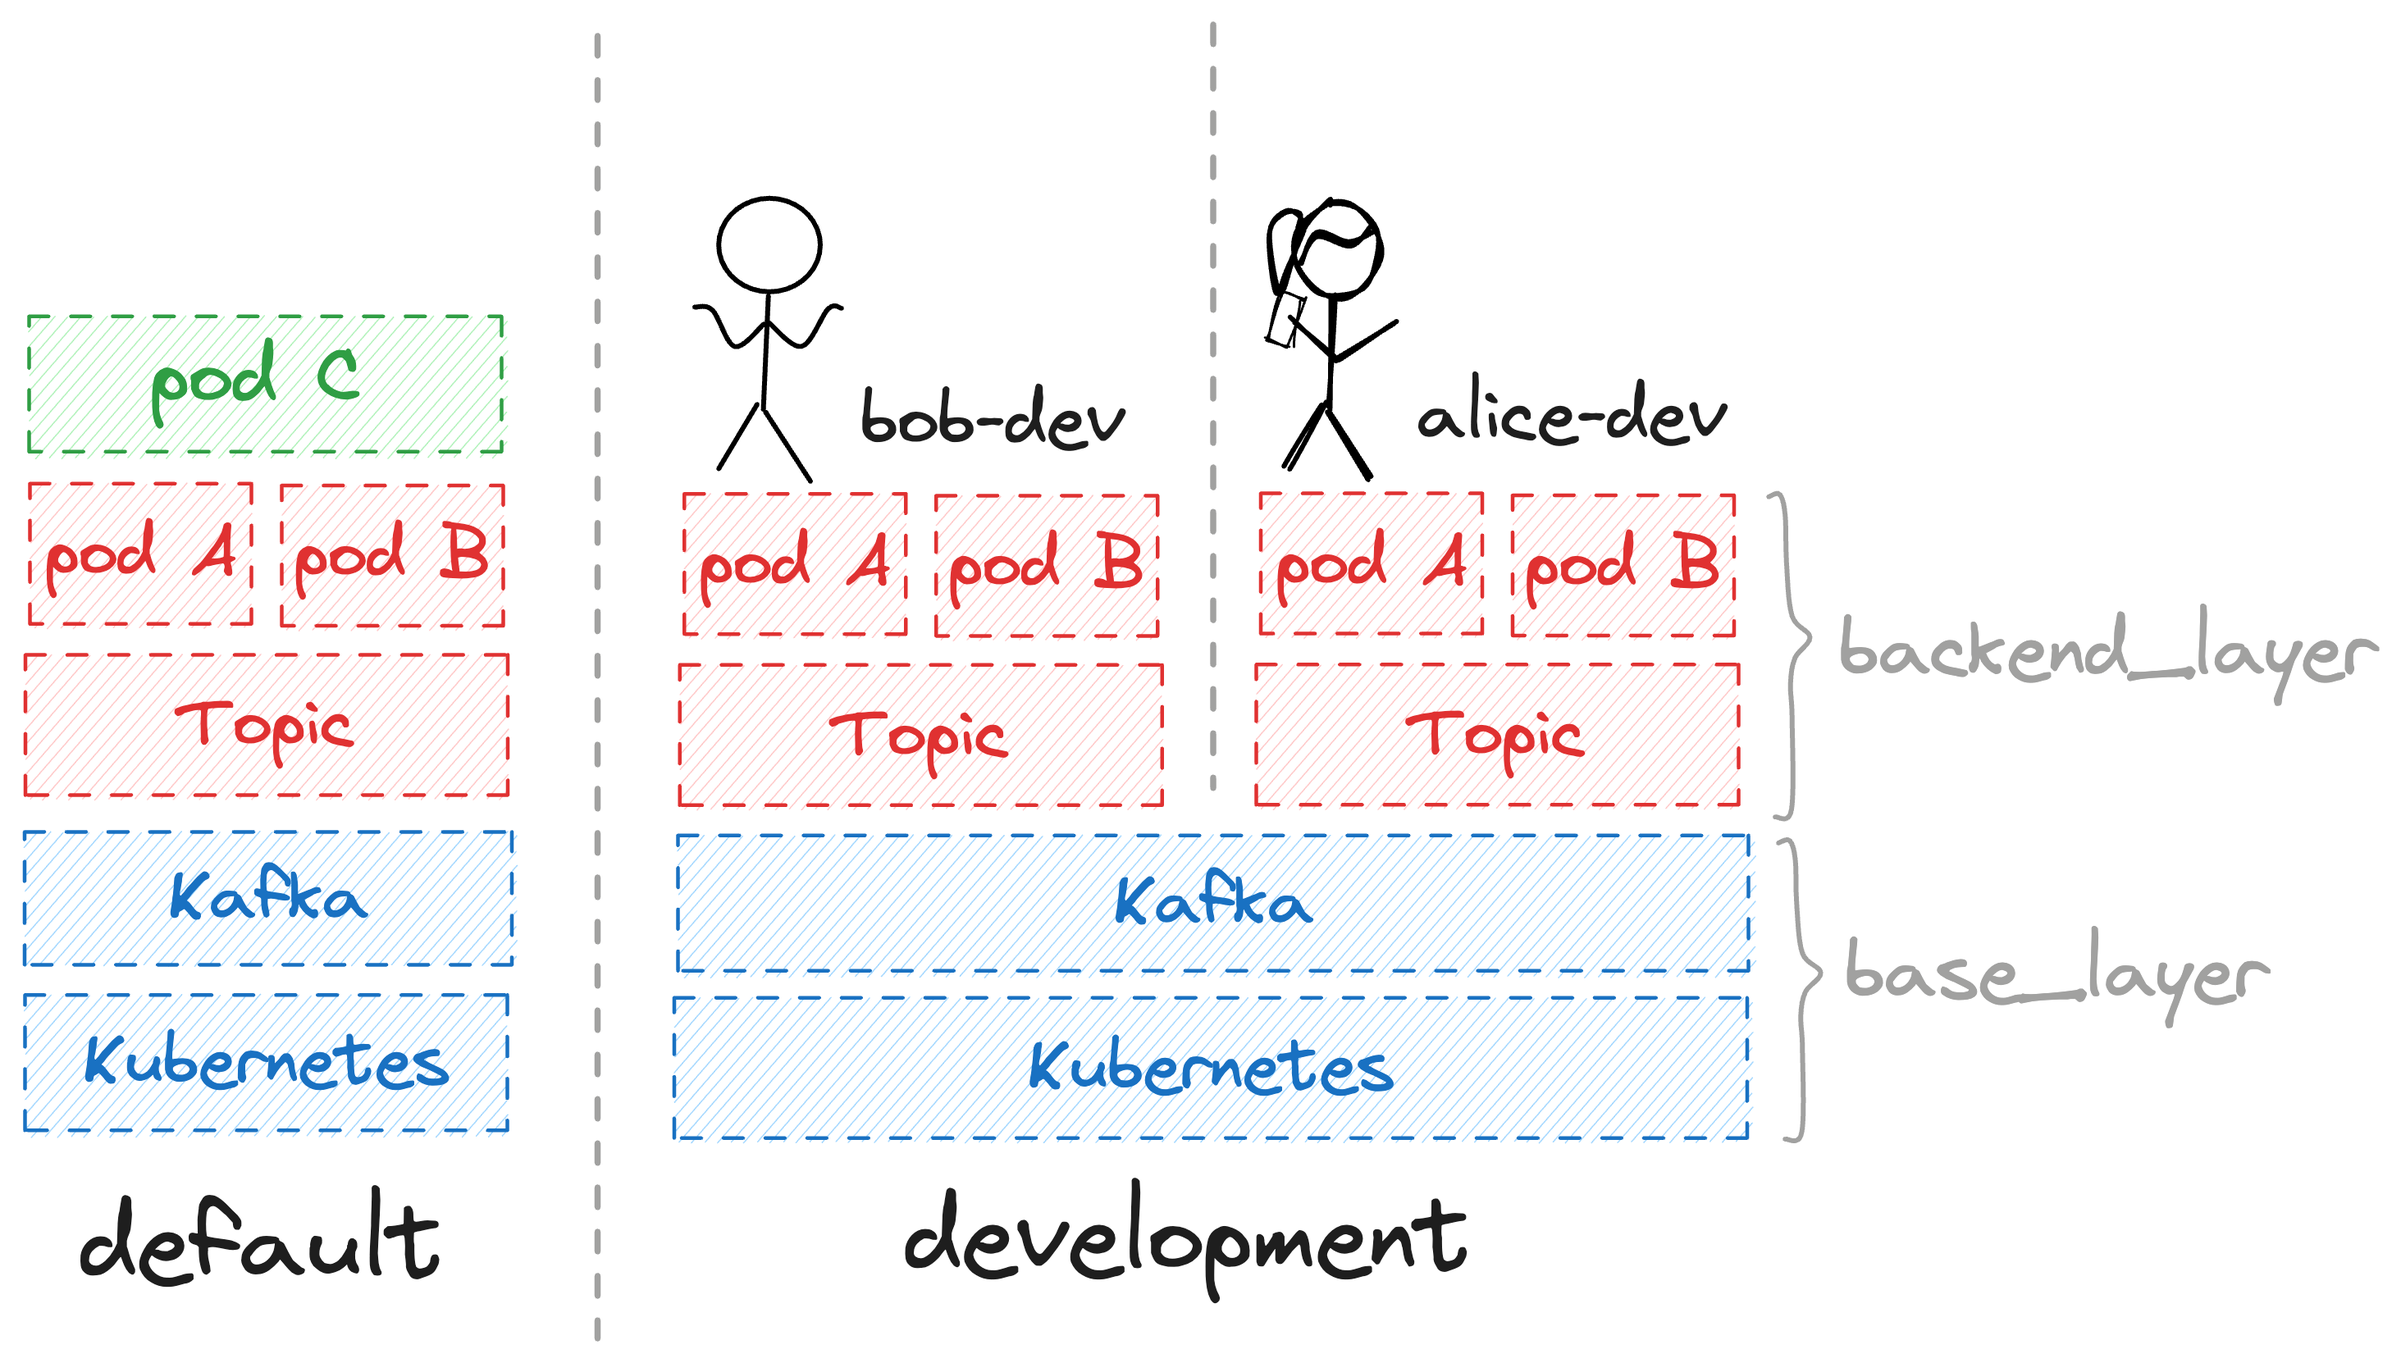
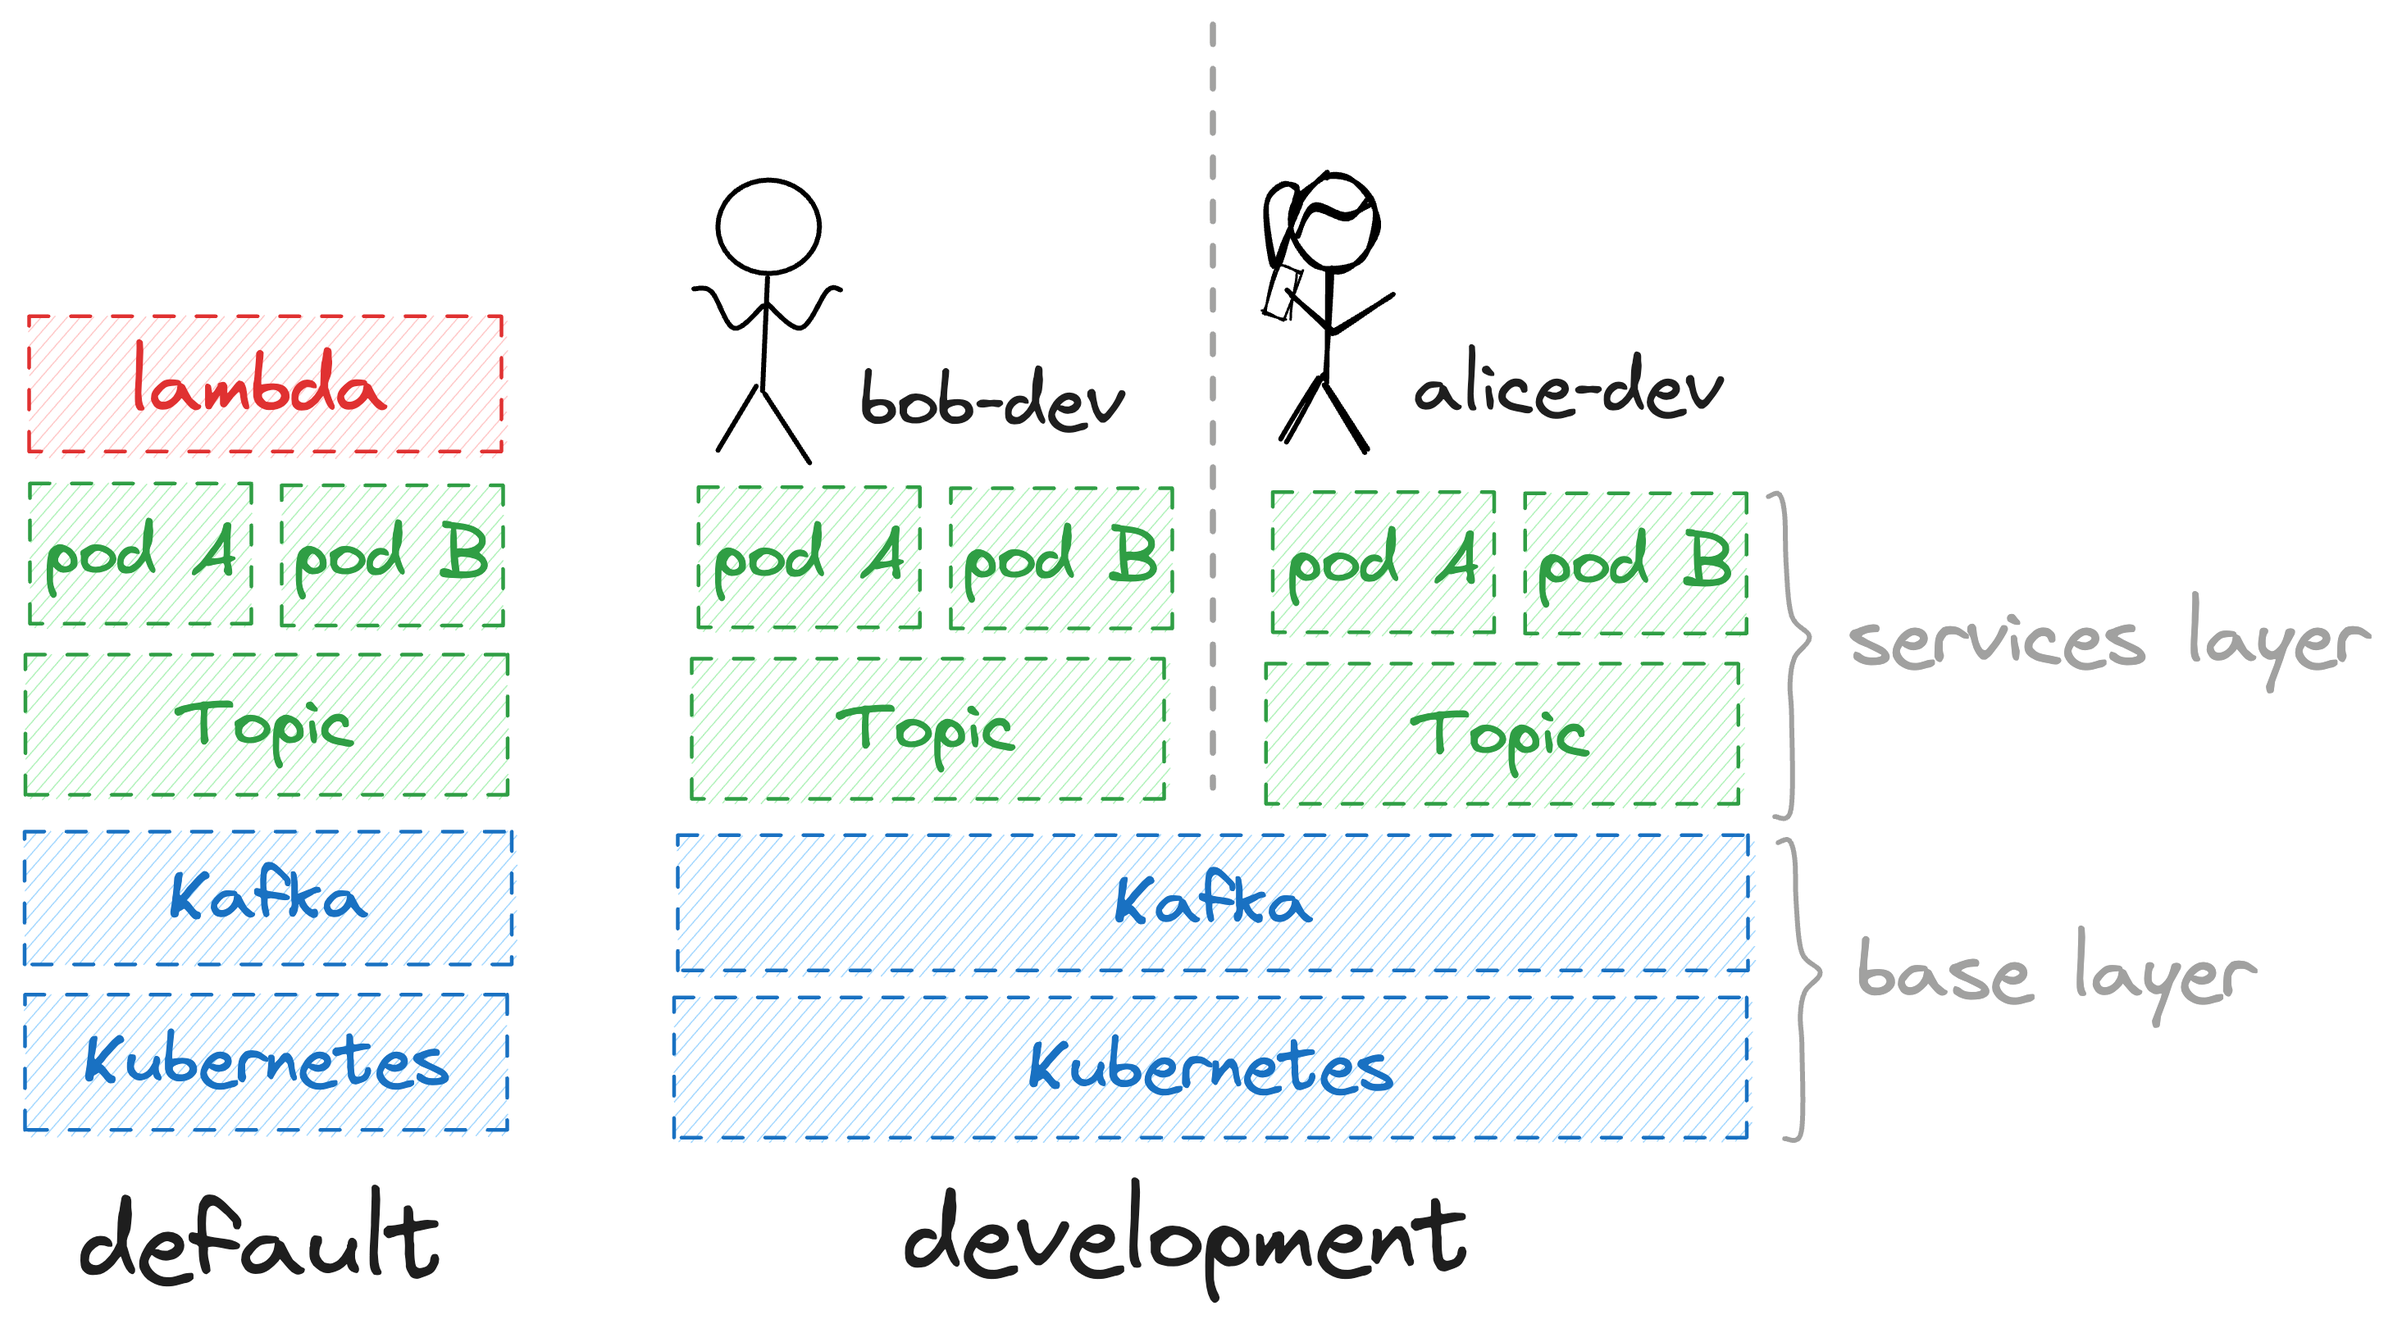
fix README

Changed region(s): [[0.2807, 0.123, 0.9668, 0.9533], [0.0, 0.2153, 0.2183, 0.984]]

diff --git a/README.md b/README.md
@@ -38,29 +38,27 @@ Layerform makes it easy for engineers to create reusable layers of infrastructur
 
 When using Layerform, engineers encapsulate each part of their infrastructure into layer definitions.
 
-```
-terraform/
-├── layers/
-│   ├── base_layer/
-│   │   ├── eks.tf
-│   │   └── kafka.tf
-│   ├── back_layer/
-│   │   ├── topic.tf
-│   │   └── services.tf
-│   └── front_layer/
-│       └── webapp.tf
-└── main.tf
-```
-
-Then, engineers can create infrastructure by stacking each of those layers. Layerform's magic is that layers can share the same base layer, allowing for easy reuse.
-
-Reusing layers is useful for easily creating production-like environments without necessarily having to recreate the whole infrastructure every time. With layers, users can spin up only the parts of the infrastructure they need.
+Engineers can create infrastructure by stacking each of those layers. Layerform's magic is that layers can share the same base layers, allowing for easy and inexpensive reuse.
 
 <p align="center">
   <img width="600px" src="./assets/img/all-layers.png" />
 </p>
 
-Reusing infrastructure helps teams save money by eliminating unnecessary duplication of infrastructure. Additionally, layers allow teams to provision environments more quickly because engineers can apply only the additional layers they need.
+## Use cases
+
+### Development environments
+
+Engineers can use Layerform to quickly spin up production-like environments.
+
+Development environments created with Layerform are similar to production environments because they use the same Terraform files.
+
+Additionally, Layerform's development enviroments are less costly and quicker to spin up because they can reuse the same base layers of infrastructure. With Layerform, engineers only apply the infrastructure layers they need.
+
+<p align="center">
+  <img width="600px" src="./assets/img/dev-environments.png" />
+</p>
+
+### Encapsulation / Isolation of concerns
 
 Another advantage of breaking infrastructure into layers is that organizations can define clearer boundaries between teams. Consequently, it will be easier for these organizations to [mirror their team's structure into their system's structure](https://martinfowler.com/bliki/ConwaysLaw.html).
 
@@ -68,9 +66,38 @@ Another advantage of breaking infrastructure into layers is that organizations c
   <img width="600px" src="./assets/img/layers-vs-org.png" />
 </p>
 
+### Cost attribution and cost savings
+
+In addition to saving costs by reusing infrastructure, Layerform allows you to automatically track costs for each layer instance.
+
+When applying layers, Layerform will automatically tag the resources it creates with the actual name assigned to the layer instance. If you have `production` and `development` base layers, for example, each of those two will contain the tag `layerform_name` with their respective names.
+
+Then, each resource on top of those base layers will include `layerform_base_name` with its respective base layer. For example, if multiple developers are spinning up resources on top of the `development` base layer, their own resources will contain a `layerform_base_name` tag whose value is `development`.
+
+That way, Layerform can recursively traverse layers' resources to collect cost management information. Consequently, it will be able to tell the cost of your whole `production` and `development` layers, as well as an aggregate cost report of everything on top of those layers.
+
 ## Getting started
 
-The first step to use layerform is to use the `layerform-provider` to define which files each layer contains.
+The first step to use Layerform is to create the Terraform files to provision each layer of infrastructure.
+
+```
+terraform/
+├── layers/
+│   ├── base_layer/
+│   │   ├── eks.tf
+│   │   └── kafka.tf
+│   ├── services_layer/
+│   │   ├── topic.tf
+│   │   └── services.tf
+│   └── integrations_layer/
+│       ├── s3.tf
+│       ├── lambda.tf
+│       ├── topic.tf
+│       └── services.tf
+└── main.tf
+```
+
+Once you have your infrastructure defined as code, you'll use Terraform and the `layerform-provider` to determine each layer's name and files.
 
 ```hcl
 # In main.tf
@@ -88,89 +115,93 @@ provider "layerform" {
   backend = "local"
 }
 
-resource "layerform_layer" "base" {
-  name   = "base_layer"
+resource "layerform_layer" "base_layer" {
+  name   = "base"
   files = ["./base_layer/**"]
 }
 
-resource "layerform_layer" "backend" {
-  name   = "backend_layer"
-  files = ["./backend/**"]
+resource "layerform_layer" "services_layer" {
+  name   = "services"
+  files = ["./services_layer/**"]
   dependencies = [
-    layerform_layer.base.id
+    layerform_layer.base_layer.id
   ]
 }
 
-resource "layerform_layer" "frontend" {
-  name   = "frontend_layer"
-  files = ["./frontend/**"]
+resource "layerform_layer" "integrations_layer" {
+  name   = "integrations"
+  files = ["./integrations_layer/**"]
   dependencies = [
-    layerform_layer.backend.id
+    layerform_layer.base_layer.id
   ]
 }
 ```
 
-After defining each layer, you can `terraform apply` them. The `layerform-provider` will then take care of creating unique IDs for each layer and sending the Terraform files' contents to the Layerform Back-end.
+After defining each layer, you should `terraform apply` them. The `layerform-provider` will then take care of creating unique IDs for each layer and sending the Terraform files' contents to the Layerform Back-end.
 
-Once each of these layer definitions has been saved, you can use `layerform apply <layer>` to create the infrastructure corresponding to each particular layer.
+After saving these layer definitions, you can use `layerform spawn <layer_name>` to create an instance of that particular layer. Each instance of a layer contains all the pieces of infrastructure defined within that layer's files.
 
-For example, to create infrastructure for the `base` layer you can run `layerform apply base_layer`. That command will cause `layerform` to create infrastructure corresponding to the `base_layer` layer and group them under the `name` "`default`".
+For example, to create infrastructure for the `services` layer you should run `layerform spawn services`. That command will cause `layerform` to:
+
+1. Create infrastructure for the `base` layer and assign it the ID `default`.
+2. Create the infrastruture for the `services` layer on top of the `default` instance of the `base` layer
+3. Assign a random ID to your `services` layer.
 
 <p align="center">
   <img width="350px" src="./assets/img/default-base-layer.png" />
 </p>
 
-Then, to create the `backend_layer` layer on top of the `default` base layer, run `layerform apply backend_layer`.
-
-> Note that whenever a `--name` is not passed, the string "`default`" is used as the name for the layer instance.
+To spawn yet another `services` layer, just run `layerform spawn services` layer again. By default, Layerform will try to use underlying layers whose ID is `default` as base layers. Again, your `services` layer instance will be assigned a random ID.
 
 <p align="center">
-  <img width="350px" src="./assets/img/default-backend-layer.png" />
+  <img width="350px" src="./assets/img/multiple-top-layers.png" />
 </p>
 
-Finally, to apply the `frontend_layer` on top of the underlying `default` layers, use `layerform apply frontend_layer`.
+> As a general rule, underlying layers are always the ones whose ID is `default`. Only the target layer gets a random ID.
+
+To specify the desired ID for each underlying layer, you'll have to use the `--id-[layername] <id>`. For example:
+
+```
+# Creates:
+# 1. A base layer with ID "one"
+# 2. A services layer with ID "two"
+
+$ layerform spawn services two --id-base=one
+```
 
 <p align="center">
-  <img width="350px" src="./assets/img/default-frontend-layer.png" />
+  <img width="350px" src="./assets/img/one-two-layers.png" />
 </p>
-
-Alternatively, you could use `layerform apply frotend_layer` straightaway, which would cause `layerform` to recursively create _all_ the underlying layers and name them "`default`".
 
 ## Reusing infrastructure for development environments
 
-Now, let's assume you wanted to create a whole separate environment for engineers to develop their applications against. This environmen needs to closely ressemble production, but it can't interfere with production resources like the production Kubernetes and Kafka instances.
+Let's assume you wanted to create a whole separate environment for engineers to develop their applications against. This environment needs to closely resemble production, but it can't interfere with production resources like the production Kubernetes and Kafka instances.
 
-For that, you can use `layerform apply base_layer --name=development`. This command will cause `layerform` to create brand new resources corresponding to the `base_layer`, and group them under the name `development`.
+For that, you can use `layerform spawn base development`. This command will cause `layerform` to create brand new resources corresponding to the `base` layer, and group them under the ID `development`.
 
 <p align="center">
   <img width="450px" src="./assets/img/dev-single-layers.png" />
 </p>
 
-After that, multiple back-end engineers can spin-up their application's infrastructure on top of this layer's resources. An engineer called Alice could then use `layerform apply backend_layer --x-base_layer=development --name=alice-dev` to create their infrastructure, while an engineer called Bob could use `layerform apply backend_layer --x-base_layer=development --name=bob-dev`.
+After that, multiple back-end engineers can spin-up their development infrastructure on top of this layer's resources. For example, an engineer called Alice could use `layerform spawn services alice-dev --x-base=development` to create their infrastructure, while an engineer called Bob could use `layerform spawn services bob-dev --x-base=development`.
 
 <p align="center">
   <img width="600px" src="./assets/img/dev-multi-layers.png" />
 </p>
 
-## Automatic cost attribution
-
-By using layers, you can automatically attribute cost to the different layers of your application.
-
-When applying layers, Layerform will automatically tag the resources it creates with the actual name assigned to the layer instance. If you have `production` and `development` base layers, for example, each of those two will contain the tag `layerform_name` with their respective names.
-
-Then, each resource on top of those base layers will include `layerform_base_name` with its respective base layer. For example, if multiple developers are spinning up resources on top of the `development` base layer, their own resources will contain a `layerform_base_name` tag whose value is `development`.
-
-That way, Layerform can recursively traverse layers' resources to collect cost management information. Consequently, it will be able to tell the cost of your whole `production` and `development` layers, as well as an aggregate cost report of everything on top of those layers.
-
 ## Layer immutability and layer rebasing
 
-A layer can only mutate itself or the layers above. For example, if you have a `base_layer` and a `backend_layer`, the `backend_layer` Terraform files will _not_ be able to mutate any infrastructure in a `base_layer` instance. Still, the `base_layer` can mutate all instances of all the layers above it.
+A layer can only mutate itself or the layers above. For example, if you have a `base` layer and a `backend` layer, the `backend` layer's Terraform files will _not_ be able to mutate any infrastructure in a `base` layer instance. Still, the `base` layer files can mutate any instances of the layers above it.
 
-The way Layerforms prevents undesirable mutations is by analyzing each `terraform plan` and detecting whether any mutation's target belongs to an underlying layer.
+The way Layerform prevents undesirable mutations is by analyzing each `terraform plan` and detecting whether any mutation's target belongs to an underlying layer.
 
 The reason Layerform prevents a layer from mutating its underlying layer is to avoid breaking sibling pieces of infrastructure.
 
-This design allows for platform teams to rebase layer instances on top of theirs. For example, assume you have multiple application layers on top of a Kubernetes cluster belonging to a `base_layer`. In that case, if the platform team wants to update the Kubernetes version and needs to patch existing application's manifests, they can do so from their own layer by using data sources.
+This design allows for platform teams to "rebase" layer instances on top of theirs. For example, assume you have multiple application layers on top of a Kubernetes cluster belonging to a `base` layer. In that case, if the platform team wants to update the Kubernetes version and needs to patch existing application's manifests, they can do so from their own layer by referencing and patching other Terraform resources.
+
+On the other hand, product engineers on the layers above cannot modify the `base` layer containing the Kubernetes cluster. Otherwise, they could break everyone else's applications.
+
+In addition to preventing failures, immutability defines clearer communication interfaces between teams and helps organizations avoid lots of lateral channels.
 
 ## How Layerform works
 
@@ -198,7 +229,7 @@ When developing Layerform, we also determined it should support virtually _any_ 
 
 Third, we decided Layerform should be simple and intuitive. Engineers shouldn't have to learn new proprietary languages or configuration formats to use Layerform. Whenever possible, we should allow them to reuse their existing configurations. Layerform concepts are the only thing engineers will need to learn about. Everything else should be "just Terraform".
 
-Finally, we decided Layerform needs to be open and free. It's for that reason we're using a GPL license, and that's why you don't necessarily need to pay for anything before you can extract value from Layerform. Sure, Ergomake Cloud can make things easier and provide a bunch of interesting Governance and Management features, but those are not necessary.
+Finally, we decided Layerform needs to be open and free. It's for that reason we're using a GPL license, and that's why you don't necessarily need to pay for anything before you can extract value from Layerform. Sure, Layerform Cloud can make things easier and provide a bunch of interesting Governance and Management features, but those are not necessary.
 
 ## Issues & Support
 
